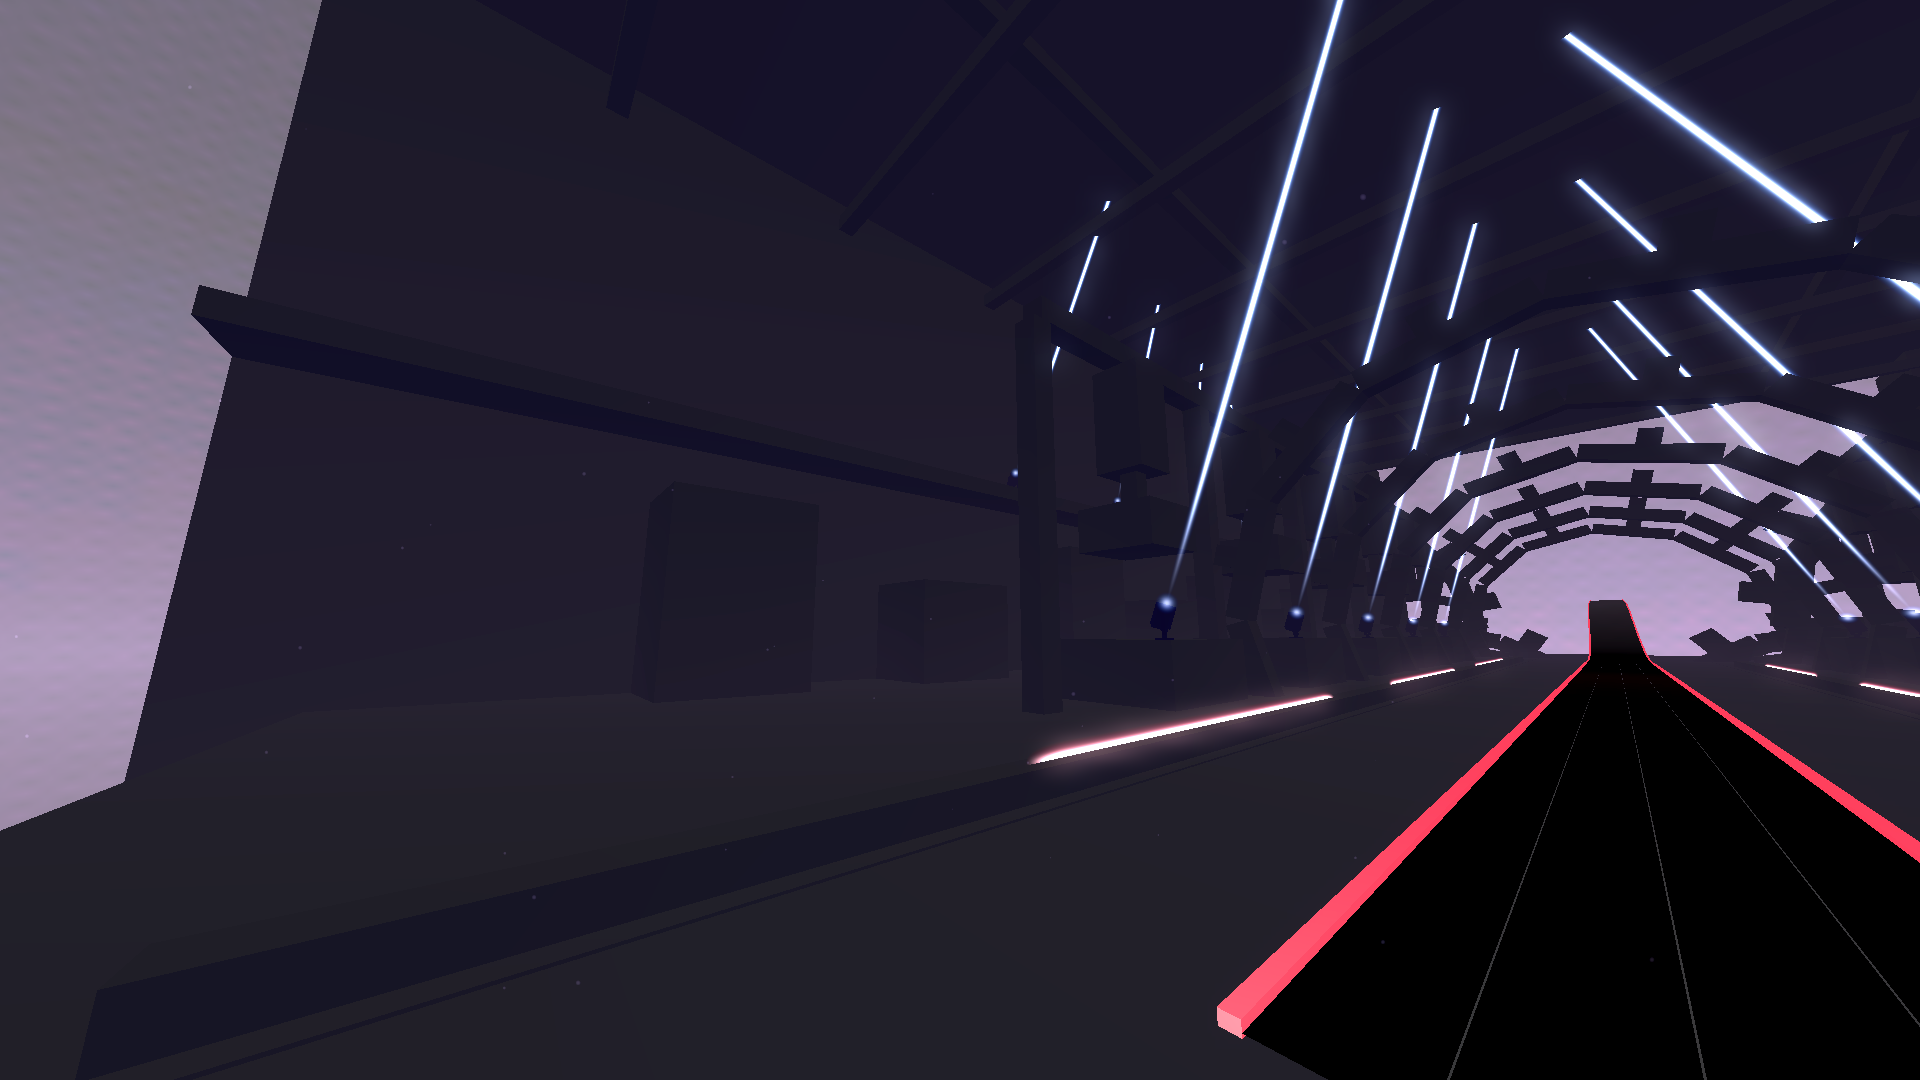
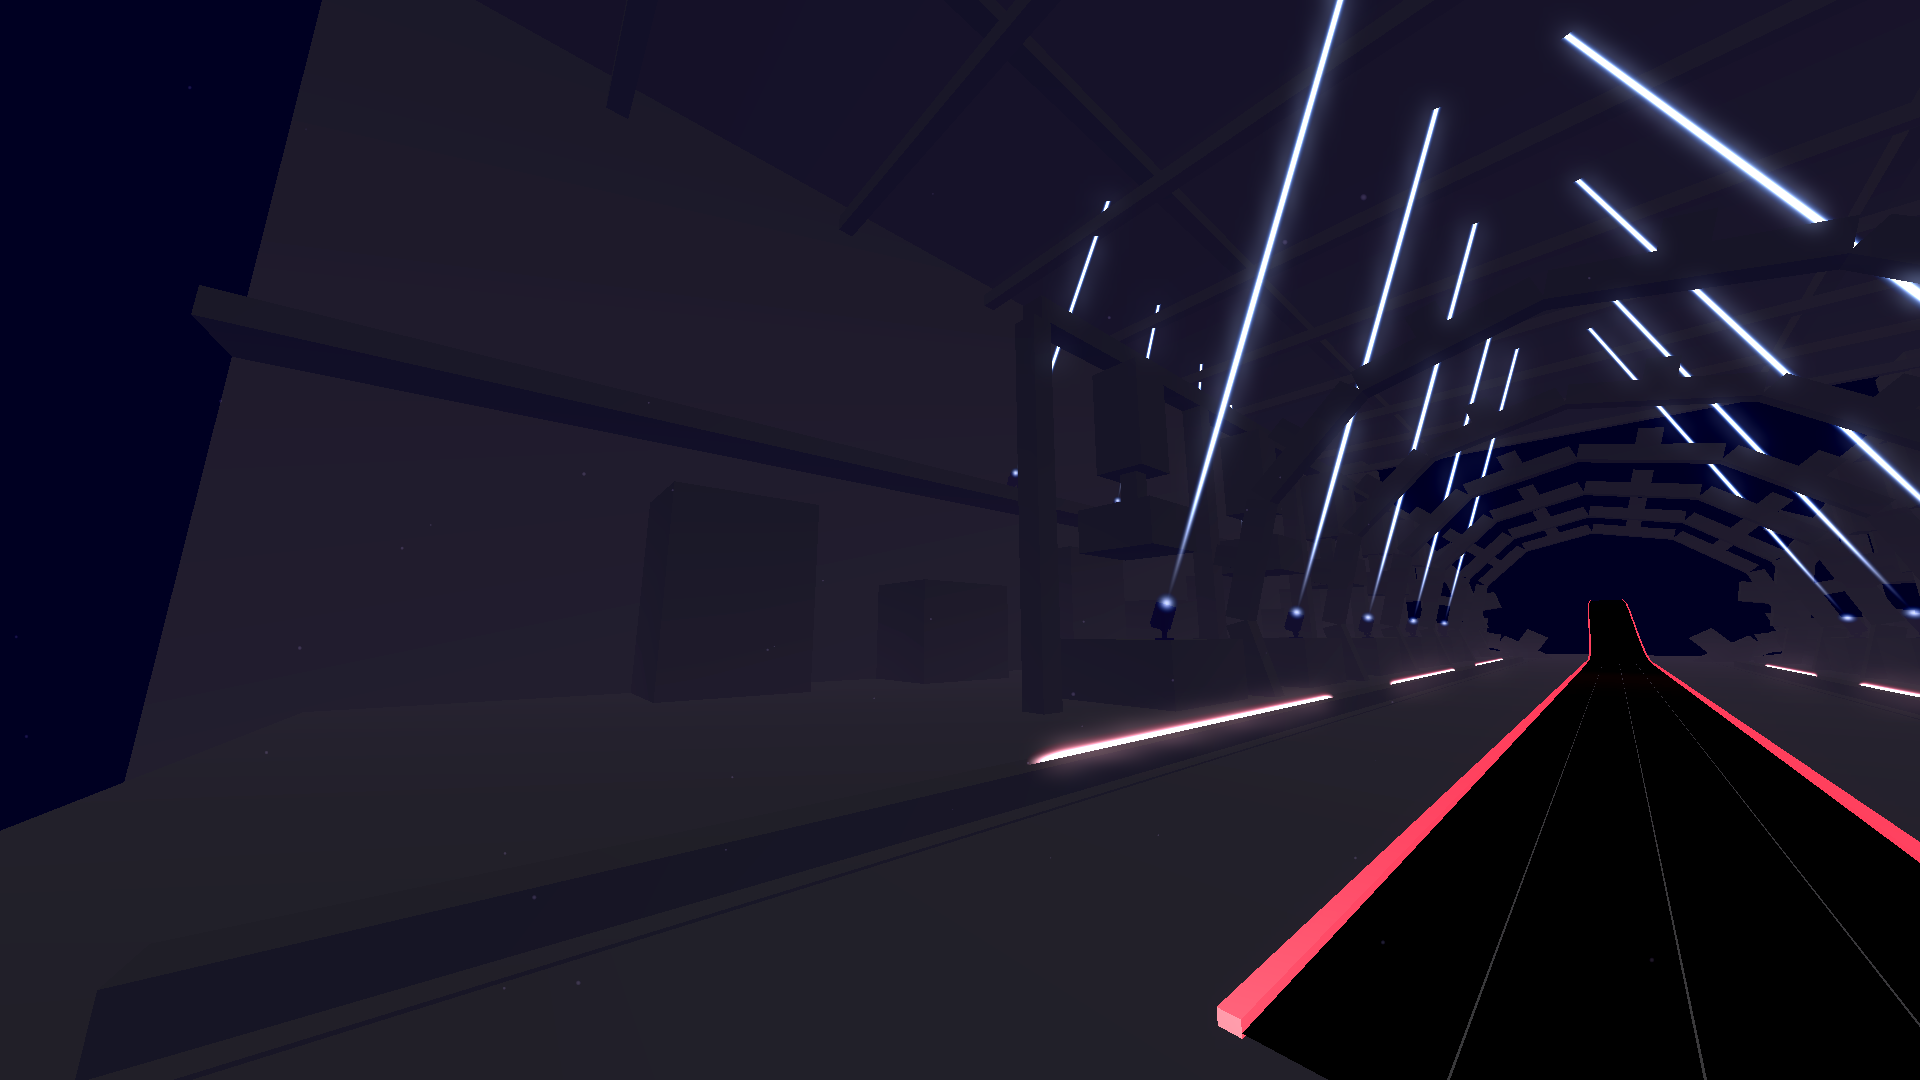
feat: Metal Factory dark sky closes the far opening
The hall's far end showed the Classic sky as a bright patch straight ahead.
Its own sky is a trace of the haze toned to navy, with no light colours, so it
stays the darkest thing in view (Light rule 1) without an end wall in front of
the horizon (rule 5): far opening luma 104 -> 16 of 255 in the lit eye capture.

Changed region(s): [[0.0, 0.0, 0.1875, 0.7639], [0.7188, 0.3667, 1.0, 0.6111], [0.9688, 0.3361, 1.0, 0.3667]]

diff --git a/doc/world/SPATIAL_LAYOUT.md b/doc/world/SPATIAL_LAYOUT.md
@@ -43,7 +43,8 @@ Plain boxes in `MetalFactoryRig.gd`, every size a named constant there; detail m
   big walls and ceiling stay near black (eye capture, lights on: wall luma 39 → 29 of 255; lights off 24).
 - Drive gears at the far end, facing the player: radius 10 at x ±17, y 2, z -58 (half in the walls' end piers);
   radius 7.5 at x ±9, y -6, z -62 in the pit (top about y 2.7). Axles into the piers and foundation. The view straight
-  ahead above the foundation stays open.
+  ahead above the foundation stays open; beyond it is the stage's own dark sky (`MetalFactorySky.gdshader`, near-black
+  navy, no light colours), the darkest thing in view (eye capture, lights on: far opening luma 104 → 16 of 255).
 - Laser fixtures: diagonal on each anvil's inner corner nearest the player (x ±6.55, z piston + 1.45, foot y 1.5);
   waving on the ledges at x ±16.5, z -16 to -40, foot y 8.
 
